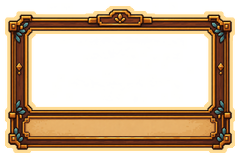
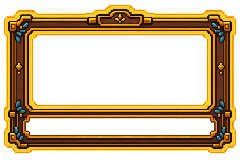
Land the reworked mini-game art, case illustrations and the full audit record
- Replace mini-mg-office (strict isometric, empty ad frame at x65-85%/y14-35%)
  and the two mini-cd-card-frame files (empty title bar left for code-drawn text).
- Add the seven case illustrations, their sources and the review tooling; add the
  chick and piggy case props.
- Record the library-wide audit in docs/art/codex-cloud-handoff.md: empty
  scratch-head frames, odd-sized weather-keys props, missing qiushi happy face,
  unreferenced public/art/portraits, and two mis-named overlay/props files.

diff --git a/docs/art/review/scripts/validate_delivery.py b/docs/art/review/scripts/validate_delivery.py
@@ -1,0 +1,57 @@
+"""Audit delivery manifest paths, runtime image sizes, alpha and status vocabulary."""
+
+from __future__ import annotations
+
+import csv
+from pathlib import Path
+
+from PIL import Image
+
+
+ROOT = Path(__file__).resolve().parents[4]
+MANIFEST = ROOT / "docs/art/delivery-2026-10-17.csv"
+VALID_STATUS = {"候选", "待验收", "已验收", "已接入"}
+
+
+def main() -> None:
+    with MANIFEST.open(encoding="utf-8-sig", newline="") as stream:
+        rows = list(csv.DictReader(stream))
+    missing: list[str] = []
+    bad_status: list[str] = []
+    bad_dimensions: list[str] = []
+    bad_alpha: list[str] = []
+    for row in rows:
+        for key in ("source_file", "target_file"):
+            value = (row.get(key) or "").strip()
+            if value and not (ROOT / value).is_file():
+                missing.append(f"{row['asset_id']} {key}: {value}")
+        if row.get("status") not in VALID_STATUS:
+            bad_status.append(f"{row['asset_id']}: {row.get('status')}")
+        target = ROOT / (row.get("target_file") or "")
+        if not target.is_file() or target.suffix.lower() not in {".png", ".webp", ".jpg", ".jpeg"}:
+            continue
+        try:
+            with Image.open(target) as im:
+                width, height = row.get("width", "").strip(), row.get("height", "").strip()
+                if width and height and (im.width != int(width) or im.height != int(height)):
+                    bad_dimensions.append(f"{row['asset_id']}: manifest {width}x{height}, file {im.width}x{im.height}")
+                if row.get("alpha") == "是":
+                    alpha = im.getchannel("A") if "A" in im.getbands() else None
+                    if alpha is None or alpha.getextrema()[0] == 255:
+                        bad_alpha.append(f"{row['asset_id']}: marked transparent but alpha is absent/fully opaque")
+                if row.get("alpha") == "否" and "A" in im.getbands() and im.getchannel("A").getextrema()[0] < 255:
+                    bad_alpha.append(f"{row['asset_id']}: marked opaque but has transparent pixels")
+        except Exception as exc:  # pragma: no cover - diagnostic output
+            bad_dimensions.append(f"{row['asset_id']}: could not read {target}: {exc}")
+    print(f"rows={len(rows)}")
+    print(f"missing_paths={len(missing)}")
+    print(f"bad_status={len(bad_status)}")
+    print(f"bad_dimensions={len(bad_dimensions)}")
+    print(f"bad_alpha={len(bad_alpha)}")
+    for group in (missing, bad_status, bad_dimensions, bad_alpha):
+        for item in group[:100]:
+            print(item)
+
+
+if __name__ == "__main__":
+    main()

diff --git a/docs/art/review/scripts/fix_delivery_metadata.py b/docs/art/review/scripts/fix_delivery_metadata.py
@@ -1,0 +1,50 @@
+"""Correct legacy manifest dimensions and normalize the allowed status field."""
+
+from __future__ import annotations
+
+import csv
+import io
+from pathlib import Path
+
+
+ROOT = Path(__file__).resolve().parents[4]
+MANIFEST = ROOT / "docs/art/delivery-2026-10-17.csv"
+DIMENSIONS = {
+    **{f"lumi-{face}-fullbody-source": (1086, 1448) for face in ("normal", "happy", "surprised", "thinking")},
+    **{f"kobayashi-{face}-fullbody-source": (1086, 1448) for face in ("normal", "happy", "surprised")},
+    "case-room-privacy-ledger": (1280, 720),
+    "case-room-privacy-ledger-v3-candidate": (1280, 720),
+    "case-room-privacy-ledger-v4-candidate": (1280, 720),
+    "case-room-farm-save-candidate": (1280, 720),
+    "case-room-calculator-eggs-candidate": (1280, 720),
+    "case-room-farm-save-v2-candidate": (1280, 720),
+    "case-room-calculator-eggs-v2-candidate": (1280, 720),
+    "case-room-weather-keys": (1280, 720),
+}
+
+
+def main() -> None:
+    raw = MANIFEST.read_bytes()
+    had_bom = raw.startswith(b"\xef\xbb\xbf")
+    text = raw.decode("utf-8-sig")
+    lines = text.splitlines()
+    changed = []
+    for index, line in enumerate(lines[1:], start=2):
+        row = next(csv.reader([line]))
+        asset_id = row[0]
+        if asset_id in DIMENSIONS:
+            row[7], row[8] = map(str, DIMENSIONS[asset_id])
+        if asset_id == "xiaoke-design-directions-v1":
+            row[12] = "候选"
+        if asset_id in DIMENSIONS or asset_id == "xiaoke-design-directions-v1":
+            stream = io.StringIO()
+            csv.writer(stream, lineterminator="").writerow(row)
+            lines[index - 1] = stream.getvalue()
+            changed.append(asset_id)
+    output = "\n".join(lines) + "\n"
+    MANIFEST.write_bytes((b"\xef\xbb\xbf" if had_bom else b"") + output.encode("utf-8"))
+    print(f"updated={len(changed)}")
+
+
+if __name__ == "__main__":
+    main()

diff --git a/docs/art/review/scripts/import_case_illustrations.py b/docs/art/review/scripts/import_case_illustrations.py
@@ -1,0 +1,49 @@
+"""Import the seven case-card illustration candidates from the art inbox."""
+
+from __future__ import annotations
+
+import json
+import shutil
+from pathlib import Path
+
+from PIL import Image, ImageDraw
+
+
+ROOT = Path(__file__).resolve().parents[4]
+INDEX = ROOT / "docs/art/review/inbox-index/inbox-index.json"
+SOURCE_DIR = ROOT / "docs/art/review/sources"
+TARGET_DIR = ROOT / "public/art/pixel/scenes"
+ASSETS = [
+    ("case-privacy-ledger", 133),
+    ("case-weather-keys", 134),
+    ("case-calculator-eggs", 135),
+    ("case-farm-save", 136),
+    ("case-archive", 137),
+    ("case-flashlight-apk", 138),
+    ("case-notes-versions", 139),
+]
+
+
+def main() -> None:
+    indexed = json.loads(INDEX.read_text(encoding="utf-8"))
+    SOURCE_DIR.mkdir(parents=True, exist_ok=True)
+    TARGET_DIR.mkdir(parents=True, exist_ok=True)
+    cols, cw, ch = 4, 320, 205
+    rows = (len(ASSETS) + cols - 1) // cols
+    preview = Image.new("RGB", (cols * cw, rows * ch), (37, 42, 51))
+    draw = ImageDraw.Draw(preview)
+    for index, (name, source_index) in enumerate(ASSETS):
+        generated = Path(indexed[source_index]["file"])
+        shutil.copy2(generated, SOURCE_DIR / f"{name}-source.png")
+        with Image.open(generated) as source:
+            target = source.convert("RGB").resize((640, 360), Image.Resampling.LANCZOS)
+            target.save(TARGET_DIR / f"{name}.png", optimize=True)
+            target.thumbnail((312, 176), Image.Resampling.LANCZOS)
+        x, y = (index % cols) * cw, (index // cols) * ch
+        preview.paste(target, (x + (cw - target.width) // 2, y + 3))
+        draw.text((x + 4, y + 181), f"{name} · inbox #{source_index}", fill=(255, 255, 255))
+    preview.save(ROOT / "docs/art/review/case-illustrations-contact.png", optimize=True)
+
+
+if __name__ == "__main__":
+    main()

diff --git a/docs/art/review/scripts/import_drill_board.py b/docs/art/review/scripts/import_drill_board.py
@@ -1,0 +1,28 @@
+"""Create the optional Revisit panel background from the generated source."""
+
+from __future__ import annotations
+
+import shutil
+from pathlib import Path
+
+from PIL import Image, ImageOps
+
+
+ROOT = Path(__file__).resolve().parents[4]
+SOURCE = Path(r"C:/Users/Administrator/.codex/generated_images/01a1486d-887a-7011-9b98-71621b1a8c9c/exec-af99c18d-fd00-4fe4-8064-5eff597b01c0.png")
+SOURCE_COPY = ROOT / "docs/art/review/sources/drill-board-source.png"
+TARGET = ROOT / "public/art/pixel/ui/drill-board.png"
+PREVIEW = ROOT / "docs/art/review/drill-board-preview.png"
+
+
+def main() -> None:
+    SOURCE_COPY.parent.mkdir(parents=True, exist_ok=True)
+    shutil.copy2(SOURCE, SOURCE_COPY)
+    with Image.open(SOURCE) as im:
+        output = ImageOps.fit(im.convert("RGB"), (640, 420), method=Image.Resampling.LANCZOS, centering=(0.5, 0.5))
+        output.save(TARGET, optimize=True)
+        output.save(PREVIEW, optimize=True)
+
+
+if __name__ == "__main__":
+    main()

diff --git a/docs/art/review/scripts/review_inbox_groups.py b/docs/art/review/scripts/review_inbox_groups.py
@@ -67,6 +67,13 @@ def main() -> None:
         cell=(235, 150),
         thumb=(220, 118),
     )
+    contact(
+        "case-illustrations-review.jpg",
+        [("case", list(range(133, 140)))],
+        cols=3,
+        cell=(460, 285),
+        thumb=(440, 248),
+    )
 
 
 def review_region_order() -> None:

diff --git a/docs/art/list.md b/docs/art/list.md
@@ -109,6 +109,7 @@
 | 推开钟楼大门，门后是满屏数字 | `scenes/tower-open.png` | 📦 | P1 |
 | 镇上为小克吵起来 | `scenes/town-argument.png` | 📦 | P1 |
 | 1843 年伦敦的雾夜街道（预告测试版的结束画面） | `scenes/london-1843.png` | 📦 | P1 |
+| 委托卡片气氛插画（记账、天气、计算器、农场、档案、手电筒、版本便签） | `scenes/case-*.png`（7张，640 × 360） | 📦 | P0/P1 | 收件箱 #133–#139 已整理；预览见 `docs/art/review/case-illustrations-contact.png`，待剧情卡片映射验收 |
 
 ### 7. 界面
 
@@ -129,7 +130,7 @@
 | 技能树六条主干的图标 | `skills/skill-*.png`（32 × 32） | 📦 | P2 | 六种 AI 主干图标已交候选，待技能树映射验收；取代第三批的五个 |
 | 见习侦探徽章 | `badge-detective.png`（48 × 48） | 📦 | P1 | 序章结束时获得 |
 | 复勘三档徽章 | `ui/drill-tier-compare.png` / `-trace.png` / `-verdict.png`（各 32 × 32） | 📦 | P1 | 对照 / 溯源 / 定案；复勘页列表与结算用，星数由代码画 |
-| 复勘面板底图 | `ui/drill-board.png`（约 640 × 420） | 🎨 | P2 | 可选；先看现有界面风格够不够，代码可顶 |
+| 复勘面板底图 | `ui/drill-board.png`（640 × 420） | 📦 | P2 | 可选空白胡桃木羊皮纸面板已交；预览见 `docs/art/review/drill-board-preview.png`，待复勘布局验收 |
 
 ### 8. 悄悄统计的品牌（原创，暗喻现实里的数据经纪行业）
 
@@ -143,14 +144,14 @@
 
 七种玩法（塔防/节奏/管道/经营/卡牌已做，格斗/时间线在规划）从代码占位换成像素演出的全套素材。**逐件清单见 [requests-minigames.md](requests-minigames.md)，以那份为准**，这里只记大头：
 
-**2026-10-18 进度**：塔防、经营主场景、卡牌全套已接入（✅）；节奏与管道素材已交待接入（📦）；经营顾客动画、金币和三张广告贴画已交待接入；格斗与时间线各一张概念图已交，暂按规划范围保留。
+**2026-10-18 进度**：塔防素材与经营、卡牌基础素材已接入；经营办公室已更新为45°等距空广告位版本，卡框已更新为透明插图窗和标题条，均待试玩复核（📦）。节奏、管道与经营顾客/金币/广告素材已交待接入；格斗与时间线各保留一张概念图。
 
 | 内容 | 文件 | 状态 | 优先级 | 备注 |
 |---|---|---|---|---|
 | 塔防：通道/保险柜/大门/措施图标/收集者 | `mini-td-*.png`、`anim-mini-td-collector` | 📦 | P0 | 已接入王奶奶关：通道铺底、两端图标、三个措施图标、收集者走 4 帧+被拦翻倒 1 帧 |
-| 经营：等距公司内景 | `mini-mg-office.png` | ✅ | P0 | 账本压在画面底部；灯一关房间变暗、风险过半房间变热 |
+| 经营：45°等距公司内景 | `mini-mg-office.png` | 📦 | P0 | 空广告位已留出；新版运行图待试玩复核广告贴画位置和缩放 |
 | 经营：顾客/金币/三张广告贴画 | `anim-mini-mg-customer`、`mini-mg-coin`、`mini-mg-ad-*` | 📦 | P0/P1 | **参考日式 Q 版 3D 经营游戏观感**：等距45°、大头小人、糖果色；全套素材已交待接入 |
-| 卡牌：对质会议室+证据卡框+六张卡面插图 | `mini-cd-room`、`mini-cd-card-frame(-on)`、`mini-cd-art-*` | 📦 | P0 | 本批美术要求最高，已全部接入；「异议！」复用 ui/objection.png |
+| 卡牌：对质会议室+证据卡框+六张卡面插图 | `mini-cd-room`、`mini-cd-card-frame(-on)`、`mini-cd-art-*` | 📦 | P0 | 场景与卡面已接入；新版卡框内窗和标题条透明，待试玩复核；「异议！」复用 ui/objection.png |
 | 开发者（新角色）立绘四表情+心虚 | `faces/dev-*.webp` | 📦 | P1 | 先交方向稿定人设，别和小克撞色 |
 | 节奏：CRT 监视器外框/轨道/判定线/音符 | `mini-rh-*.png`、`anim-mini-rh-*` | 📦 | P0 | 已画好，待接进节奏关 |
 | 管道：直管/弯管/钥匙/服务器/发布包 | `mini-pipe-*.png` | 📦 | P0 | 已画好，待接进阿哲关 |
@@ -181,7 +182,7 @@
 | 爱达、巴贝奇 | `anim-ada` `anim-babbage` | 站立 2 + 说话 2（第一章再补走路） | 📦 | P1 | 两人头像和 2×2 精灵候选已交，待对话映射验收 |
 | 沙龙的宾客 | `anim/anim-guests.png` | 4 位维多利亚时代宾客，各待机 2 帧 | 📦 | P2 | 候选与逐行 JSON 已交，待沙龙站位与动作验收 |
 
-> 📦 / 🎨：另一位 10-15 交过一批 NPC 和委托人的精灵表（`docs/art/inbox.md` #108–#115、#125–#132、#140–#143），小克还没认出是谁。**请另一位在交付说明里标一下哪张是谁**，已经有的就不用重画。
+> 收件箱中的未具名 NPC 精灵（`docs/art/inbox.md` #108–#115、#125–#132、#140–#143）作为来源档案留存，待与后续剧情身份对应时再复用；当前具名角色按各自的已标识素材交付。
 
 ### 2. 小动物（精灵表，规格见 prompts.md M 节）
 

diff --git a/docs/art/inbox.md b/docs/art/inbox.md
@@ -1,6 +1,6 @@
-# 待接入的素材（另一位 2026-10-15 的出图，还没放进项目）
+# 美术收件箱源图对账（2026-10-15 起）
 
-> **2026-10-17 实查：原收件目录已有 202 张 PNG，下表的 144 张是旧统计。** 后续需补登记与验收；本轮请先看 [当前素材制作与交付需求](asset-requirements.md)。
+> **2026-10-17 实查：原收件目录有 202 张 PNG，下表的 144 张是旧统计。** 这里记录来源与复用状态；不是每张都需要进入运行目录。当前制作与验收进度见 [当前素材制作与交付需求](asset-requirements.md)，完整路径见 `delivery-2026-10-17.csv`。
 
 位置：`C:/Users/Administrator/.codex/generated_images/01a13a14-2db6-7f32-aecd-353b0f8d6736/`，共 144 张（按修改时间排序后的编号）。小克核对到一半，玩法优先，接入工作暂停。
 
@@ -9,18 +9,22 @@
 | #0–#30 | 立绘：路米、小林（已用）；阿哲 #11–14、小雨 #15（全身像，新） | 阿哲、小雨待接 |
 | #31–#35、#40–#47 | 早期地图草稿 | 不用 |
 | #48–#52 | 秋季五张分区图原图（已用） | — |
-| #71–#75 | **夏季**五张分区图（中心、住宅、手艺街、北区、南岸） | 待核对对齐后接入 |
-| #86–#90 | **春季**五张分区图 | 同上 |
-| #96–#100 | **冬季**五张分区图（积雪） | 同上 |
-| #36–#39、#43–#44、#53–#64、#78–#85、#91–#95、#101–#105 | 室内：秋季草稿和定稿（已用）、夏、春、冬版本 | 待按季节整理 |
+| #71–#75 | **夏季**五张分区图（中心、住宅、手艺街、北区、南岸） | 已缩至960×540候选，待出口、碰撞验收 |
+| #86–#90 | **春季**五张分区图 | 已缩至960×540候选，待出口、碰撞验收 |
+| #96–#100 | **冬季**五张分区图（积雪） | 已缩至960×540候选，待出口、碰撞验收 |
+| #36–#39、#43–#44、#53–#64、#78–#85、#91–#95、#101–#105 | 室内：秋季草稿和定稿（已用）、夏、春、冬版本 | #82–#85、#92–#95、#102–#105 四类公共室内已按季节整理为候选；其他留档 |
 | #33、#34、#76、#77、#106、#107 | 路米的精灵表（新版本） | 待比较 |
 | #108–#115、#125–#132、#140、#142–#143 | NPC、路人、委托人的精灵表 | 待逐个认出是谁 |
 | #141 | 黑发、矩形眼镜、藏蓝格纹衬衫男性精灵表 | 已认领为星博士；标准行动画候选已交，待验收 |
-| #116–#124 | 小动物：橘猫、柴犬、小鸡、鸭子、鸽子、蝴蝶 | 待接入 |
-| #133–#139 | 案例插图（记账、天气、计算器、农场、档案、手电筒、便签） | 待接入案例卡 |
+| #116–#124 | 小动物：橘猫、柴犬、小鸡、鸭子、鸽子、蝴蝶 | 早期静态/短动作候选留档；完整动作采用#167–#172 |
+| #133–#139 | 案例插图（记账、天气、计算器、农场、档案、手电筒、便签版本） | 已整理为7张640×360候选，待剧情卡片映射验收 |
 
 2026-10-18 对账：收件图 **#141** 的黑发、矩形眼镜、藏蓝格纹衬衫男性与星博士身份相符；已复用为 `anim-xingbo` 五行动画源图（标准行裁帧），无需另画同一角色。
+
+2026-10-18 对账：春、夏、冬地图分别复用 #86–#90、#71–#75、#96–#100；四类公共室内的春夏冬候选分别复用 #92–#95、#82–#85、#102–#105。所有运行尺寸和来源登记在 `delivery-2026-10-17.csv`。
 
 接入四季时注意：季节版地图的建筑位置必须和秋季版对齐；碰撞、遮挡和水面数据要按每个季节的图重新生成。对齐检查图已做到一半（`scratchpad/align.png`）。
 
 2026-10-18 更新：按用户指定，小克直接采用 Claude Code 的 Clawd 橙色像素蟹形象。六表情头像、4×5 专属动画和怀表图标已生成，运行文件及候选位置见 `delivery-2026-10-17.csv`；旧白色机器人和三方向稿已被新方向取代并归档，当前文件待游戏接入验收。
+
+2026-10-18 更新：收件箱 #167–#172 的橘猫、柴犬、小鸡、鸭子、白鸽与蝴蝶已各自切成透明逐行动画表；预览见 `docs/art/review/animal-animations-contact.png`。

diff --git a/docs/art/codex-cloud-handoff.md b/docs/art/codex-cloud-handoff.md
@@ -63,3 +63,21 @@
 ## 云端执行注意
 
 本交接文件只记录项目状态，不会自动上传当前工作树。启动 Codex 云端任务时，选择一个包含本地美术改动的分支；云端仓库若看不到这些文件，先同步该分支再继续。
+
+## 2026-10-18 全库扫描补充发现（256 张 PNG + 66 头像）
+
+用 `.sandbox/fullaudit.mjs`（空洞/透明/网格/风格）+ `.sandbox/metacheck.mjs`（头像集/季节结构对齐/清单）全量扫过，小游戏 44 项硬检查全部通过，另发现：
+
+**需要处理：**
+
+1. `anim-kobayashi.png` **挠头动画声明 4 帧但画布只有 2 帧**——第 3、4 帧全空，播放会让角色消失 720ms。已把 JSON 暂改为 `frames:2, ms:[260,240]` 兜底；请补画第 3、4 帧（收回手/恢复），补画后恢复 4 帧与 `ms:[180,160,360,360]`。
+2. `case-props/weather-keys-*.png` 六张**奇数尺寸**（60×49、40×57、44×51、52×101、40×31、40×35）：2 倍密度下会出现半格错位，请各补 1px 或按偶数重出。
+3. `faces/qiushi-happy.webp` 缺失——代码会用到 `happy`，当前静默回退 normal。请补一张秋实开心的表情。
+4. `public/art/portraits/`（27 张旧立绘 PNG）**无任何代码引用**，与在用的 `faces/*.webp` 重复，易误用；建议归档或移出运行目录。
+5. 命名/归类易误导：`regions/north-clocktower-running|stopped.png` 是 96.6% 透明的"钟楼建筑叠加层"，名字却像底图；`eras/london/difference-engine.png`（64×96）是透明底道具却放在满幅场景目录。接入时注意别当满幅底图用。
+
+**观察项（非缺陷）：**
+
+- 季节地图结构对齐：桥/码头/路径等关键结构与秋季版一致 ✓；冬季边缘差值偏大来自积雪与植被替换，属预期。接入季节时仍须按季节重建碰撞/遮挡（既有提醒）。
+- `ui/timemachine-dial.png` 颜色数 7708 远超同目录中位（340），金属渐变 UI 风格偏离像素风，可接受但留意统一。
+- 交付清单登记的目标文件 0 缺失 ✓；66 张头像全部 320×320 一致 ✓；各角色四表情集齐全（除秋实缺 happy）。

diff --git a/docs/art/requests-minigames.md b/docs/art/requests-minigames.md
@@ -1,6 +1,6 @@
 # 小游戏素材需求：七种玩法（2026-10-18）
 
-小游戏跑在案件实验室面板里。本清单记录替换占位所需的像素演出素材，以及接入和验收状态；塔防、经营、卡牌已接入，节奏与管道素材待接入，格斗与时间线目前各保留一张概念图。玩法本身的设计见 [minigame-genres.md](../minigame-genres.md)；委托房间的素材不在这里，见 [requests-case-rooms.md](requests-case-rooms.md)。
+小游戏跑在案件实验室面板里。本清单记录替换占位所需的像素演出素材，以及接入和验收状态；塔防、经营、卡牌已有接入基础；本轮经营办公室与证据卡框已按规格修订，待试玩复核；节奏与管道素材待接入，格斗与时间线目前各保留一张概念图。玩法本身的设计见 [minigame-genres.md](../minigame-genres.md)；委托房间的素材不在这里，见 [requests-case-rooms.md](requests-case-rooms.md)。
 
 ## 一、统一规格（这一批都适用）
 
@@ -99,3 +99,5 @@
 3. **P2**：经营日夜变体与装饰件、拦截/光流特效、第七节两个概念图。
 
 配套逐件清单见 `requests-minigames.csv`（列与 `asset-requirements.md` 第 8 节一致）。
+
+2026-10-18 美术修订：经营办公室已更新为严格45°等距构图，墙面广告位留空；证据卡普通框与选中框的插图窗、标题条内侧现为透明。运行图已替换，状态转为「待验收」，需在对应小游戏中确认比例与贴画/文字位置。

diff --git a/docs/art/requests-case-rooms.md b/docs/art/requests-case-rooms.md
@@ -24,7 +24,7 @@
 | U 盘 | `usb.png` | 18×12 | `(118, 150)` | 已接入 |
 | 小鸡 | `chick-candidate.png` | 20×20 | 未布置 | 已交付，场景里还没有小鸡的调查点，先留作地板装饰 |
 
-## 三、小雨的房间（`case-room-calculator-eggs`）：还缺这些
+## 三、小雨的房间（`case-room-calculator-eggs`）：素材已齐
 
 粉色学生卧室，黄昏斜光：左边床，中间窗，右边书桌和书架。
 
